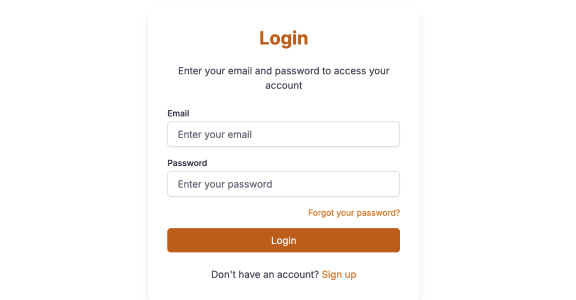
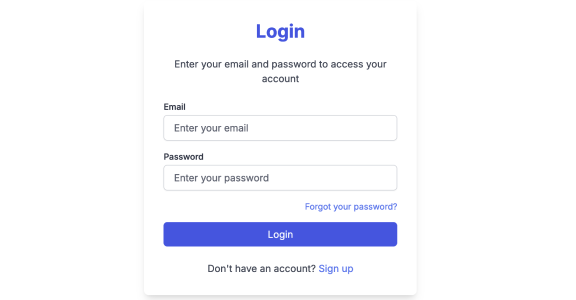
fix: tailwind component colors

diff --git a/src/constants/tailwind-components/login.ts b/src/constants/tailwind-components/login.ts
@@ -2,7 +2,7 @@ const Login1 = `
 <main class="flex items-center justify-center min-h-screen bg-gray-100 p-4">
   <div class="w-full max-w-md bg-white rounded-lg shadow-lg p-8 space-y-6">
     <!-- Title -->
-    <h2 class="text-3xl font-bold text-center text-orange-600">Login</h2>
+    <h2 class="text-3xl font-bold text-center text-blue-600">Login</h2>
     <p class="text-center text-gray-600">Enter your email and password to access your account</p>
 
     <!-- Login Form -->
@@ -15,7 +15,7 @@ const Login1 = `
           id="email"
           name="email"
           placeholder="Enter your email"
-          class="mt-1 block w-full px-4 py-2 border border-gray-300 rounded-md shadow-sm focus:outline-none focus:ring-2 focus:ring-orange-500 focus:border-transparent"
+          class="mt-1 block w-full px-4 py-2 border border-gray-300 rounded-md shadow-sm focus:outline-none focus:ring-2 focus:ring-blue-500 focus:border-transparent"
           required
         />
       </div>
@@ -28,7 +28,7 @@ const Login1 = `
           id="password"
           name="password"
           placeholder="Enter your password"
-          class="mt-1 block w-full px-4 py-2 border border-gray-300 rounded-md shadow-sm focus:outline-none focus:ring-2 focus:ring-orange-500 focus:border-transparent"
+          class="mt-1 block w-full px-4 py-2 border border-gray-300 rounded-md shadow-sm focus:outline-none focus:ring-2 focus:ring-blue-500 focus:border-transparent"
           required
         />
         <!-- Password Toggle Icon (Non-Functional) -->
@@ -39,13 +39,13 @@ const Login1 = `
 
       <!-- Forgot Password Link -->
       <div class="flex justify-end">
-        <a href="#" class="text-sm text-orange-500 hover:underline">Forgot your password?</a>
+        <a href="#" class="text-sm text-blue-500 hover:underline">Forgot your password?</a>
       </div>
 
       <!-- Login Button -->
       <button
         type="submit"
-        class="w-full px-4 py-2 text-white bg-orange-600 rounded-md focus:outline-none focus:ring-2 focus:ring-orange-500 focus:ring-opacity-50 hover:bg-orange-700 transition-colors"
+        class="w-full px-4 py-2 text-white bg-blue-600 rounded-md focus:outline-none focus:ring-2 focus:ring-blue-500 focus:ring-opacity-50 hover:bg-blue-700 transition-colors"
       >
         Login
       </button>
@@ -54,7 +54,7 @@ const Login1 = `
     <!-- Sign Up Link -->
     <div class="text-center text-gray-600">
       Don't have an account?
-      <a href="#" class="text-orange-500 hover:underline">Sign up</a>
+      <a href="#" class="text-blue-500 hover:underline">Sign up</a>
     </div>
   </div>
 </main>
@@ -66,7 +66,7 @@ const LoginWithSocialButtons = `
 <div class="flex items-center justify-center min-h-screen bg-gray-100 p-4">
   <div class="w-full max-w-md bg-white rounded-lg shadow-lg p-8 space-y-6">
     <!-- Title -->
-    <h2 class="text-3xl font-bold text-center text-orange-600">Login</h2>
+    <h2 class="text-3xl font-bold text-center text-blue-600">Login</h2>
     <p class="text-center text-gray-600">Enter your email and password to access your account</p>
 
     <!-- Login Form -->
@@ -79,7 +79,7 @@ const LoginWithSocialButtons = `
           id="email"
           name="email"
           placeholder="Enter your email"
-          class="mt-1 block w-full px-4 py-2 border border-gray-300 rounded-md shadow-sm focus:outline-none focus:ring-2 focus:ring-orange-500 focus:border-transparent"
+          class="mt-1 block w-full px-4 py-2 border border-gray-300 rounded-md shadow-sm focus:outline-none focus:ring-2 focus:ring-blue-500 focus:border-transparent"
           required
         />
       </div>
@@ -92,7 +92,7 @@ const LoginWithSocialButtons = `
           id="password"
           name="password"
           placeholder="Enter your password"
-          class="mt-1 block w-full px-4 py-2 border border-gray-300 rounded-md shadow-sm focus:outline-none focus:ring-2 focus:ring-orange-500 focus:border-transparent"
+          class="mt-1 block w-full px-4 py-2 border border-gray-300 rounded-md shadow-sm focus:outline-none focus:ring-2 focus:ring-blue-500 focus:border-transparent"
           required
         />
         <!-- Password Toggle Icon (Non-Functional) -->
@@ -103,13 +103,13 @@ const LoginWithSocialButtons = `
 
       <!-- Forgot Password Link -->
       <div class="flex justify-end">
-        <a href="#" class="text-sm text-orange-500 hover:underline">Forgot your password?</a>
+        <a href="#" class="text-sm text-blue-500 hover:underline">Forgot your password?</a>
       </div>
 
       <!-- Login Button -->
       <button
         type="submit"
-        class="w-full px-4 py-2 text-white bg-orange-600 rounded-md focus:outline-none focus:ring-2 focus:ring-orange-500 focus:ring-opacity-50"
+        class="w-full px-4 py-2 text-white bg-blue-600 rounded-md focus:outline-none focus:ring-2 focus:ring-blue-500 focus:ring-opacity-50"
       >
         Login
       </button>
@@ -155,7 +155,7 @@ const LoginWithSocialButtons = `
     <!-- Sign Up Link -->
     <p class="text-center text-gray-600">
       Don't have an account?
-      <a href="#" class="text-orange-500 hover:underline">Sign up</a>
+      <a href="#" class="text-blue-500 hover:underline">Sign up</a>
     </p>
   </div>
 </div>

diff --git a/src/constants/tailwind-components/navbar.ts b/src/constants/tailwind-components/navbar.ts
@@ -1,7 +1,7 @@
 const Navbar1 = `
  <nav class="bg-white shadow">
       <div class="mx-auto flex h-16 max-w-screen-xl items-center justify-between px-4 sm:px-6 lg:px-8">
-        <div class="flex text-red-500 gap-2">
+        <div class="flex text-blue-500 gap-2">
           <svg
             class="h-8 w-8"
             xmlns="http://www.w3.org/2000/svg"
@@ -34,14 +34,14 @@ const Navbar1 = `
         </div>
 
         <div class="flex-grow hidden md:flex justify-center space-x-4">
-          <a href="/" class="text-gray-600 hover:text-red-500 cursor-pointer">Home</a>
-          <a href="/about" class="text-gray-600 hover:text-red-500 cursor-pointer">About</a>
-          <a href="/blog" class="text-gray-600 hover:text-red-500 cursor-pointer">Blog</a>
+          <a href="/" class="text-gray-600 hover:text-blue-500 cursor-pointer">Home</a>
+          <a href="/about" class="text-gray-600 hover:text-blue-500 cursor-pointer">About</a>
+          <a href="/blog" class="text-gray-600 hover:text-blue-500 cursor-pointer">Blog</a>
         </div>
 
         <div class="hidden md:flex justify-center items-center gap-2">
-          <a href="/login" class="hover:text-red-600 bg-red-50 px-5 py-2.5 text-sm font-medium text-red-500 hover:bg-red-100 rounded-md">Login</a>
-          <a href="#" class="block rounded-md bg-red-500 px-5 py-2.5 text-sm font-medium text-white hover:bg-red-600">Sign in</a>
+          <a href="/login" class="hover:text-blue-600 bg-blue-50 px-5 py-2.5 text-sm font-medium text-blue-500 hover:bg-red-100 rounded-md">Login</a>
+          <a href="#" class="block rounded-md bg-blue-500 px-5 py-2.5 text-sm font-medium text-white hover:bg-blue-600">Sign in</a>
         </div>
 
         <div class="md:hidden">
